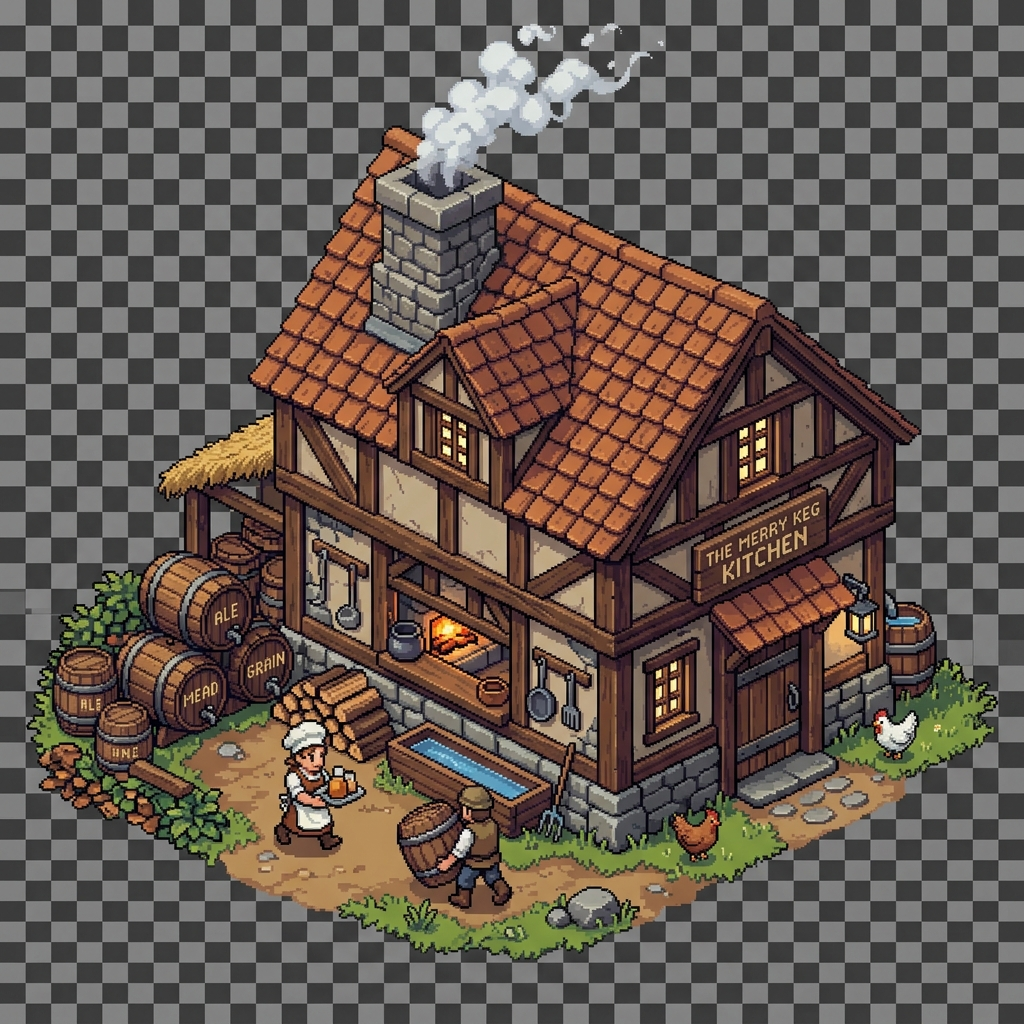
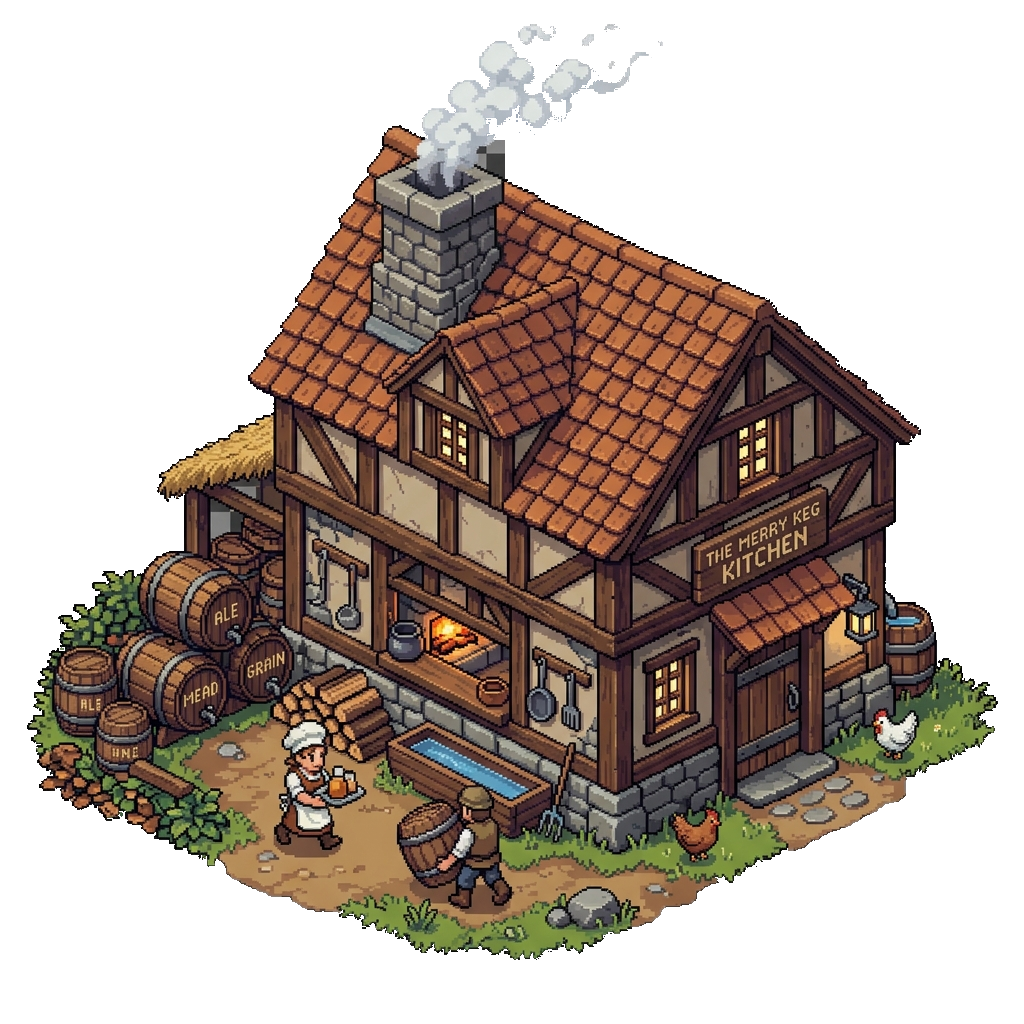
feat: adiciona evolucao visual de predios e armas iniciais

diff --git a/src/ui/renderer.js b/src/ui/renderer.js
@@ -6,14 +6,19 @@ import {
   screenToGrid
 } from '../core/navigation.js';
 
-const BUILDING_LEVEL_SCALE = [1.0, 1.12, 1.26]; // escala visual por nível (índice = level - 1)
+const BUILDING_LEVEL_SCALE = [1.0, 1.04, 1.08, 1.12, 1.16]; // visual scale by asset stage
 
 const BUILDING_VISUAL_STAGES = [
   { key: 'straw', name: 'Palha', wall: '#8f6b38', wallDark: '#5d4428', roof: '#d0a84f', roofDark: '#8c6428', trim: '#4a301a', foundation: '#5c4938' },
   { key: 'wood', name: 'Madeira', wall: '#8a5632', wallDark: '#55321f', roof: '#7d3326', roofDark: '#4e2018', trim: '#2c1a12', foundation: '#6d5b48' },
   { key: 'stone', name: 'Pedra', wall: '#747d82', wallDark: '#3e484d', roof: '#6d4633', roofDark: '#3c281e', trim: '#252b2e', foundation: '#4f5a5f' },
-  { key: 'brick', name: 'Tijolo', wall: '#9a4939', wallDark: '#5c2b24', roof: '#bd6b33', roofDark: '#743817', trim: '#2f2119', foundation: '#66706f' }
+  { key: 'brick', name: 'Tijolo', wall: '#9a4939', wallDark: '#5c2b24', roof: '#bd6b33', roofDark: '#743817', trim: '#2f2119', foundation: '#66706f' },
+  { key: 'noble', name: 'Nobre', wall: '#b9b8aa', wallDark: '#6b6f70', roof: '#24435e', roofDark: '#152838', trim: '#6f4a24', foundation: '#7d8586' }
 ];
+
+function getBuildingAssetStage(level) {
+  return Math.min(Math.max(level || 1, 1), 5);
+}
 
 export function getBuildingVisualStage(level) {
   return BUILDING_VISUAL_STAGES[Math.min(Math.max(level, 1), BUILDING_VISUAL_STAGES.length) - 1];
@@ -376,6 +381,26 @@ export class GameRenderer {
     assetsList['weapon_bow']       = 'assets/sprites/weapon_bow_universal.png';
     assetsList['weapon_staff']     = 'assets/sprites/weapon_staff_universal.png';
     assetsList['weapon_shield']    = 'assets/sprites/weapon_shield_universal.png';
+    assetsList['weapon_starter_warrior_sword']    = 'assets/sprites/weapon_starter_warrior_sword_universal.png';
+    assetsList['weapon_starter_warrior_shield']   = 'assets/sprites/weapon_starter_warrior_shield_universal.png';
+    assetsList['weapon_starter_mercenary_dagger'] = 'assets/sprites/weapon_starter_mercenary_dagger_universal.png';
+    assetsList['weapon_starter_archer_bow']       = 'assets/sprites/weapon_starter_archer_bow_universal.png';
+    assetsList['weapon_starter_archer_bow_walk_bg'] = 'assets/sprites/weapon_starter_archer_bow_walk_bg_universal.png';
+    assetsList['weapon_starter_archer_bow_walk_fg'] = 'assets/sprites/weapon_starter_archer_bow_walk_fg_universal.png';
+    assetsList['weapon_starter_archer_bow_shoot_bg'] = 'assets/sprites/weapon_starter_archer_bow_shoot_bg_universal.png';
+    assetsList['weapon_starter_archer_bow_shoot_fg'] = 'assets/sprites/weapon_starter_archer_bow_shoot_fg_universal.png';
+    assetsList['weapon_starter_mage_staff']       = 'assets/sprites/weapon_starter_mage_staff_universal.png';
+    assetsList['weapon_starter_priest_scepter']   = 'assets/sprites/weapon_starter_priest_scepter_universal.png';
+    assetsList['weapon_t1_warrior_iron_sword']    = 'assets/sprites/weapon_t1_warrior_iron_sword_universal.png';
+    assetsList['weapon_t1_warrior_round_shield']  = 'assets/sprites/weapon_t1_warrior_round_shield_universal.png';
+    assetsList['weapon_t1_mercenary_iron_dagger'] = 'assets/sprites/weapon_t1_mercenary_iron_dagger_universal.png';
+    assetsList['weapon_t1_archer_hunter_bow']     = 'assets/sprites/weapon_t1_archer_hunter_bow_universal.png';
+    assetsList['weapon_t1_archer_hunter_bow_walk_bg'] = 'assets/sprites/weapon_t1_archer_hunter_bow_walk_bg_universal.png';
+    assetsList['weapon_t1_archer_hunter_bow_walk_fg'] = 'assets/sprites/weapon_t1_archer_hunter_bow_walk_fg_universal.png';
+    assetsList['weapon_t1_archer_hunter_bow_shoot_bg'] = 'assets/sprites/weapon_t1_archer_hunter_bow_shoot_bg_universal.png';
+    assetsList['weapon_t1_archer_hunter_bow_shoot_fg'] = 'assets/sprites/weapon_t1_archer_hunter_bow_shoot_fg_universal.png';
+    assetsList['weapon_t1_mage_apprentice_staff'] = 'assets/sprites/weapon_t1_mage_apprentice_staff_universal.png';
+    assetsList['weapon_t1_priest_oak_scepter']    = 'assets/sprites/weapon_t1_priest_oak_scepter_universal.png';
 
     for (const key in assetsList) {
       const img = new Image();
@@ -1159,18 +1184,7 @@ export class GameRenderer {
 
     if (isBuilt) {
       // Mapeamento do nível do prédio para um dos 5 estágios visuais
-      let stage = 1;
-      if (b.key === 'market') {
-        if (level === 1) stage = 1;
-        else if (level === 2) stage = 3;
-        else stage = 5;
-      } else {
-        if (level === 1) stage = 1;
-        else if (level === 2) stage = 2;
-        else if (level === 3 || level === 4) stage = 3;
-        else if (level === 5 || level === 6) stage = 4;
-        else stage = 5; // level >= 7
-      }
+      const stage = getBuildingAssetStage(level);
 
       // Tentar usar o estágio específico, com fallback para o original e depois geométrico
       const stageKey = `${b.key}_${stage}`;
@@ -1185,7 +1199,7 @@ export class GameRenderer {
         this.ctx.save();
         
         // Variação de escala por nível (Nível 1: 1.0x, Nível 2: 1.12x, Nível 3: 1.26x)
-        const scaleMult = BUILDING_LEVEL_SCALE[Math.min(level - 1, 2)];
+        const scaleMult = BUILDING_LEVEL_SCALE[stage - 1] || 1;
         // Aumentamos o tamanho de renderização (de 1.5 para 1.75) para destacar as novas imagens!
         const imgBase = isoFootprintW * 1.75;
         const dw = imgBase * scaleMult;
@@ -2917,6 +2931,28 @@ export class GameRenderer {
         // 1. Corpo
         const bodyImg = this.images[`body_${hero.cosmetics.bodyType}`];
         if (bodyImg && bodyImg.loaded) {
+          let weaponDrawnBehindBody = false;
+          let weaponForegroundKey = null;
+          if (hero.className === 'ARCHER' && hero.equipment.weapon) {
+            const bowBackgroundKey = action === 'shoot'
+              ? hero.equipment.weapon.shootBackgroundAssetKey
+              : hero.equipment.weapon.walkBackgroundAssetKey;
+            weaponForegroundKey = action === 'shoot'
+              ? (hero.equipment.weapon.shootForegroundAssetKey || null)
+              : (hero.equipment.weapon.walkForegroundAssetKey || null);
+            const bowBackgroundImg = bowBackgroundKey ? this.images[bowBackgroundKey] : null;
+            if (bowBackgroundImg && bowBackgroundImg.loaded) {
+              this.ctx.drawImage(bowBackgroundImg, sx, sy, sw, sh, -size / 2, -size + 4, size, size);
+            } else if (hero.facingDir === 'N') {
+              const bowKey = hero.equipment.weapon.assetKey || 'weapon_bow';
+              const bowImg = this.images[bowKey];
+              if (bowImg && bowImg.loaded) {
+                this.ctx.drawImage(bowImg, sx, sy, sw, sh, -size / 2, -size + 4, size, size);
+              }
+              weaponDrawnBehindBody = true;
+            }
+          }
+
           this.ctx.drawImage(bodyImg, sx, sy, sw, sh, -size / 2, -size + 4, size, size);
 
           // 2. Cabelo (se houver)
@@ -2953,22 +2989,27 @@ export class GameRenderer {
             }
           }
 
-          // 5. Escudo (se Guerreiro com arma equipada)
-          if (hero.className === 'WARRIOR' && hero.equipment.weapon) {
-            const shieldImg = this.images['weapon_shield'];
+          // 5. Escudo
+          if (hero.equipment.shield || (hero.className === 'WARRIOR' && hero.equipment.weapon)) {
+            const shieldKey = hero.equipment.weapon?.shieldAssetKey || hero.equipment.shield?.assetKey || 'weapon_shield';
+            const shieldImg = this.images[shieldKey];
             if (shieldImg && shieldImg.loaded) {
               this.ctx.drawImage(shieldImg, sx, sy, sw, sh, -size / 2, -size + 4, size, size);
             }
           }
 
           // 6. Arma (se equipada)
-          if (hero.equipment.weapon) {
-            let weaponType = 'longsword';
-            if (hero.className === 'MERCENARY') weaponType = 'dagger';
-            else if (hero.className === 'ARCHER') weaponType = 'bow';
-            else if (hero.className === 'MAGE' || hero.className === 'PRIEST') weaponType = 'staff';
+          if (hero.equipment.weapon && !weaponDrawnBehindBody) {
+            let weaponKey = weaponForegroundKey || hero.equipment.weapon.classAssetKeys?.[hero.className] || hero.equipment.weapon.assetKey;
+            if (!weaponKey) {
+              let weaponType = 'longsword';
+              if (hero.className === 'MERCENARY') weaponType = 'dagger';
+              else if (hero.className === 'ARCHER') weaponType = 'bow';
+              else if (hero.className === 'MAGE' || hero.className === 'PRIEST') weaponType = 'staff';
+              weaponKey = `weapon_${weaponType}`;
+            }
 
-            const weaponImg = this.images[`weapon_${weaponType}`];
+            const weaponImg = this.images[weaponKey];
             if (weaponImg && weaponImg.loaded) {
               this.ctx.drawImage(weaponImg, sx, sy, sw, sh, -size / 2, -size + 4, size, size);
             }

diff --git a/src/data/constants.js b/src/data/constants.js
@@ -438,6 +438,83 @@ export const BUILDINGS_CONFIG = {
   }
 };
 
+export const STARTER_EQUIPMENT = {
+  WARRIOR: {
+    weapon: {
+      key: 'starter_warrior_sword',
+      name: 'Espada Enferrujada de Recruta',
+      slot: 'weapon',
+      icon: '⚔️',
+      class: ['WARRIOR'],
+      tier: 0,
+      assetKey: 'weapon_starter_warrior_sword',
+      stats: { atk: 2 }
+    },
+    shield: {
+      key: 'starter_warrior_shield',
+      name: 'Escudo de Madeira Gasto',
+      slot: 'shield',
+      icon: '🛡️',
+      class: ['WARRIOR'],
+      tier: 0,
+      assetKey: 'weapon_starter_warrior_shield',
+      stats: { def: 1 }
+    }
+  },
+  MERCENARY: {
+    weapon: {
+      key: 'starter_mercenary_dagger',
+      name: 'Adagas Cegas de Rua',
+      slot: 'weapon',
+      icon: '🗡️',
+      class: ['MERCENARY'],
+      tier: 0,
+      assetKey: 'weapon_starter_mercenary_dagger',
+      stats: { atk: 2 }
+    }
+  },
+  ARCHER: {
+    weapon: {
+      key: 'starter_archer_bow',
+      name: 'Arco Curto de Aprendiz',
+      slot: 'weapon',
+      icon: '🏹',
+      class: ['ARCHER'],
+      tier: 0,
+      assetKey: 'weapon_starter_archer_bow',
+      walkBackgroundAssetKey: 'weapon_starter_archer_bow_walk_bg',
+      walkForegroundAssetKey: 'weapon_starter_archer_bow_walk_fg',
+      shootBackgroundAssetKey: 'weapon_starter_archer_bow_shoot_bg',
+      shootForegroundAssetKey: 'weapon_starter_archer_bow_shoot_fg',
+      stats: { atk: 2 }
+    }
+  },
+  MAGE: {
+    weapon: {
+      key: 'starter_mage_staff',
+      name: 'Cajado Torto de Aprendiz',
+      slot: 'weapon',
+      icon: '🔮',
+      class: ['MAGE'],
+      tier: 0,
+      assetKey: 'weapon_starter_mage_staff',
+      stats: { atk: 2 }
+    }
+  },
+  PRIEST: {
+    weapon: {
+      key: 'starter_priest_scepter',
+      name: 'Cetro Simples de Peregrino',
+      slot: 'weapon',
+      icon: '✦',
+      class: ['PRIEST'],
+      tier: 0,
+      assetKey: 'weapon_starter_priest_scepter',
+      stats: { atk: 1, def: 1 }
+    }
+  }
+};
+
 export const CRAFT_RECIPES = {
   // Consumíveis
   // --- TIER 1 ---
@@ -468,9 +545,9 @@ export const CRAFT_RECIPES = {
 
   // EQUIPAMENTOS ORIGINAIS E LENDÁRIOS DO FOLCLORE
   // --- GRAU 1 ---
-  sword_t1: { name: 'Espada de Ferro Curta', slot: 'weapon', icon: '⚔️', class: ['WARRIOR', 'MERCENARY'], tier: 1, cost: { iron_ore: 5, wood_rough: 2, gold: 50 }, stats: { atk: 12 } },
-  bow_t1: { name: 'Arco de Bordo Simples', slot: 'weapon', icon: '🏹', class: ['ARCHER'], tier: 1, cost: { wood_rough: 6, gold: 50 }, stats: { atk: 10 } },
-  staff_t1: { name: 'Cajado Rúnico Rústico', slot: 'weapon', icon: '🔮', class: ['MAGE', 'PRIEST'], tier: 1, cost: { wood_rough: 5, iron_ore: 1, gold: 50 }, stats: { atk: 9 } },
+  sword_t1: { name: 'Espada de Ferro Curta', slot: 'weapon', icon: '⚔️', class: ['WARRIOR', 'MERCENARY'], tier: 1, cost: { iron_ore: 5, wood_rough: 2, gold: 50 }, classAssetKeys: { WARRIOR: 'weapon_t1_warrior_iron_sword', MERCENARY: 'weapon_t1_mercenary_iron_dagger' }, shieldAssetKey: 'weapon_t1_warrior_round_shield', stats: { atk: 12 } },
+  bow_t1: { name: 'Arco de Bordo Simples', slot: 'weapon', icon: '🏹', class: ['ARCHER'], tier: 1, cost: { wood_rough: 6, gold: 50 }, assetKey: 'weapon_t1_archer_hunter_bow', walkBackgroundAssetKey: 'weapon_t1_archer_hunter_bow_walk_bg', walkForegroundAssetKey: 'weapon_t1_archer_hunter_bow_walk_fg', shootBackgroundAssetKey: 'weapon_t1_archer_hunter_bow_shoot_bg', shootForegroundAssetKey: 'weapon_t1_archer_hunter_bow_shoot_fg', stats: { atk: 10 } },
+  staff_t1: { name: 'Cajado Rúnico Rústico', slot: 'weapon', icon: '🔮', class: ['MAGE', 'PRIEST'], tier: 1, cost: { wood_rough: 5, iron_ore: 1, gold: 50 }, classAssetKeys: { MAGE: 'weapon_t1_mage_apprentice_staff', PRIEST: 'weapon_t1_priest_oak_scepter' }, stats: { atk: 9 } },
   
   // Equipamento Lendário Tier 1 do Folclore (Gorro do Saci)
   cajado_saci_t1: { name: 'Cajado de Saci', slot: 'weapon', icon: '🔮', class: ['MAGE', 'PRIEST'], tier: 1, cost: { wood_rough: 3, gorro_vermelho: 1, gold: 80 }, stats: { atk: 18 } },

diff --git a/src/core/hero.js b/src/core/hero.js
@@ -1,4 +1,4 @@
-import { HERO_CLASSES, ITEMS_INFO, CRAFT_RECIPES } from '../data/constants.js';
+import { HERO_CLASSES, ITEMS_INFO, CRAFT_RECIPES, STARTER_EQUIPMENT } from '../data/constants.js';
 import {
   getBuildingTownPoint,
   getHuntEntryPoint,
@@ -88,6 +88,16 @@ const RARITY_MULTIPLIERS = {
   'Lendário': 2.0
 };
 
+function cloneEquipmentItem(item) {
+  if (!item) return null;
+
+  return {
+    ...item,
+    class: item.class ? [...item.class] : undefined,
+    stats: item.stats ? { ...item.stats } : undefined
+  };
+}
+
 export const BUILDING_POSITIONS = {
   townhall: { x: 480, y: 150 },
   hotel: { x: 260, y: 240 },
@@ -175,6 +185,7 @@ export class Hero {
       boots: null
     };
 
+    this.applyStarterEquipment();
     this.recalculateStats();
 
     // Vida atual começa cheia
@@ -228,6 +239,19 @@ export class Hero {
 
     // Histórico de logs de atividades do herói
     this.logs = [`Chegou à cidade.`];
+  }
+
+  applyStarterEquipment() {
+    const starter = STARTER_EQUIPMENT[this.className];
+    if (!starter) return;
+
+    if (!this.equipment.weapon && starter.weapon) {
+      this.equipment.weapon = cloneEquipmentItem(starter.weapon);
+    }
+
+    if (!this.equipment.shield && starter.shield) {
+      this.equipment.shield = cloneEquipmentItem(starter.shield);
+    }
   }
 
   // Recalcula os status somando a classe e equipamentos

diff --git a/src/core/game.js b/src/core/game.js
@@ -197,9 +197,10 @@ export class Game {
         hero.hp = hData.hp;
         hero.inventory = hData.inventory;
         hero.equipment = Object.assign({
-          weapon: null, armor: null, helmet: null, necklace: null, gloves: null,
+          weapon: null, armor: null, helmet: null, shield: null, necklace: null, gloves: null,
           ring: null, belt: null, boots: null
         }, hData.equipment);
+        hero.applyStarterEquipment();
         hero.cosmetics = hData.cosmetics || hero.cosmetics;
         hero.currentMap = hData.currentMap || 'town';
         hero.x = hData.x ?? hero.x;

diff --git a/docs/lpc_asset_pipeline.md b/docs/lpc_asset_pipeline.md
@@ -1,0 +1,39 @@
+# Pipeline de assets LPC
+
+Referencia principal: https://github.com/LiberatedPixelCup/Universal-LPC-Spritesheet-Character-Generator
+
+O jogo usa sprites no formato Universal LPC como camadas sobre o corpo do heroi. Cada camada universal tem:
+
+- Tamanho total: `832x1344`.
+- Celula: `64x64`.
+- Grade: `13` colunas por `21` linhas.
+- Fundo transparente.
+
+Linhas usadas atualmente pelo renderer:
+
+- `0-3`: magia/cast, direcoes norte, oeste, sul e leste.
+- `8-11`: caminhada/idle, direcoes norte, oeste, sul e leste.
+- `12-15`: ataque slash, direcoes norte, oeste, sul e leste.
+- `16-19`: ataque shoot, direcoes norte, oeste, sul e leste.
+
+## Regra para novas armas
+
+Cada arma final precisa ser uma camada LPC completa, nao apenas uma imagem frontal. O processo recomendado e:
+
+1. Criar o conceito isolado da arma.
+2. Definir as vistas de direcao: frente, costas, esquerda e direita.
+3. Adaptar as vistas para as animacoes usadas pela classe.
+4. Montar a folha `832x1344` alinhada ao corpo LPC.
+5. Testar no jogo em movimento e combate.
+
+## Armas iniciais por classe
+
+Os assets iniciais T0 sao separados por classe para permitir identidade visual desde o nascimento do heroi:
+
+- Guerreiro: espada simples + escudo simples.
+- Mercenario: adagas curtas.
+- Arqueiro: arco curto.
+- Mago: cajado de aprendiz.
+- Sacerdote: cetro/cajado de peregrino.
+
+Esses arquivos podem comecar como derivacoes LPC compativeis e depois ser substituidos por arte refinada, mantendo os mesmos nomes de arquivo e chaves no renderer.

diff --git a/docs/parallel_workflow.md b/docs/parallel_workflow.md
@@ -1,0 +1,20 @@
+# Trabalho paralelo
+
+Este projeto pode ter frentes paralelas de asset:
+
+- Codex: cidade, equipamentos, efeitos, UI e integracao visual LPC.
+- Claude Code: monstros, sprites de inimigos, drops e comportamento relacionado.
+
+Para evitar conflito:
+
+1. Nao misturar arquivos de monstros com commits de equipamentos.
+2. Antes de push/deploy, rodar `git status --short` e revisar se ha arquivos de outra frente.
+3. Assets de monstros devem ficar em commits separados dos assets de armas/armaduras.
+4. Quando uma frente terminar, integrar via pull/merge antes de continuar editando os mesmos arquivos de dados.
+
+Arquivos que exigem cuidado por serem compartilhados:
+
+- `src/data/constants.js`
+- `src/ui/renderer.js`
+- `src/core/monster.js`
+- `assets/sprites/monster_*`

diff --git a/plan_evolution_images.md b/plan_evolution_images.md
@@ -15,13 +15,13 @@ Este documento registra e acompanha o status de criação das **35 imagens de ev
 
 | Edifício | Estágio 1 (Barraca) | Estágio 2 (Palha) | Estágio 3 (Madeira) | Estágio 4 (Pedra) | Estágio 5 (Nobre) |
 | :--- | :---: | :---: | :---: | :---: | :---: |
-| **Prefeitura (Townhall)** | ⏳ Pendente | ⏳ Pendente | ⏳ Pendente | ⏳ Pendente | ⏳ Pendente |
-| **Hotel (Estalagem)** | ⏳ Pendente | ⏳ Pendente | ⏳ Pendente | ⏳ Pendente | ⏳ Pendente |
-| **Restaurante** | ⏳ Pendente | ⏳ Pendente | ⏳ Pendente | ⏳ Pendente | ⏳ Pendente |
-| **Hospital** | ⏳ Pendente | ⏳ Pendente | ⏳ Pendente | ⏳ Pendente | ⏳ Pendente |
-| **Taverna** | ⏳ Pendente | ⏳ Pendente | ⏳ Pendente | ⏳ Pendente | ⏳ Pendente |
-| **Forja** | ⏳ Pendente | ⏳ Pendente | ⏳ Pendente | ⏳ Pendente | ⏳ Pendente |
-| **Mercado (Market)** | ⏳ Pendente | ⏳ Pendente | ⏳ Pendente | ⏳ Pendente | ⏳ Pendente |
+| **Prefeitura (Townhall)** | Concluido | Concluido | Concluido | Concluido | Concluido |
+| **Hotel (Estalagem)** | Concluido | Concluido | Concluido | Concluido | Concluido |
+| **Restaurante** | Concluido | Concluido | Concluido | Concluido | Concluido |
+| **Hospital** | Concluido | Concluido | Concluido | Concluido | Concluido |
+| **Taverna** | Concluido | Concluido | Concluido | Concluido | Concluido |
+| **Forja** | Concluido | Concluido | Concluido | Concluido | Concluido |
+| **Mercado (Market)** | Concluido | Concluido | Concluido | Concluido | Concluido |
 
 *Legenda:*
 * ⏳ *Pendente*: Imagem ainda não gerada.
@@ -59,4 +59,4 @@ python C:\Users\Usuario\.gemini\antigravity\scratch\make_transparent.py C:\Users
 ## 🛠️ Próximos Passos
 1. [x] Criar o script Python `make_transparent.py` para automatizar a remoção de fundo.
 2. [x] Atualizar o código-fonte em `renderer.js` e `town.js` para suportar as 5 imagens de evolução e o grid de 16x14.
-3. [Pendente - Aguardando Quota de Imagens] Gerar as 35 imagens dos edifícios no estilo 16-bit isometric pixel art.
+3. [x] Gerar as 35 imagens dos edificios no estilo 16-bit isometric pixel art.